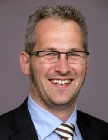
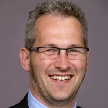
Adding registration links and photo fixes

diff --git a/public/stylesheets/table.css b/public/stylesheets/table.css
@@ -1,0 +1,135 @@
+.table_data{
+float:left;
+margin-top:10px;
+width:100%;
+}
+
+.table_border {
+	margin: 0 auto;
+	width: 100%;
+	border-left: 1px solid #c1c1c1;
+	border-right: 1px solid #c1c1c1;
+}
+.budget tr {
+background: url("../images/table_bg.png") repeat-x scroll 0 0 transparent;
+	
+	border-bottom: 1px solid #c1c1c1;
+	border-left: 1px solid #c1c1c1;
+	color: #678197;
+	padding: 5px 6px;
+	text-align: left;
+}
+
+.break_bg {
+background: url("../images/break_bg.png") repeat-x scroll 0 0 transparent !important;
+height:30px;
+	text-align: left;
+}
+
+.no_padding{
+padding:0px !important;
+
+}
+
+.user_headings {
+	font-weight:bold;
+	float:left;
+	padding:0px 0 0 0;
+	color:#f69e29;
+	
+	width:100%;
+}
+div.user_headings p.data {
+	background:url("../images/coffee_icon.png") no-repeat scroll left center transparent;
+	color:#000000;
+	font-size:12px;
+	font-weight:bold;
+height: 22px;
+    margin-left: 5px;
+    padding-left: 28px;
+    padding-top: 0;
+}
+.budget .table_header {
+	
+	border-top: 1px solid #c1c1c1;
+	color: #2A4D8E;
+	font-size: 12px;
+	font-weight: bold;
+	text-align: left;
+	height:29px;
+	padding-top: 8px;
+}
+.budget thead th {
+	background-image: url("../images/tbody_bg.png");
+	background-repeat: repeat-x;
+	color: #000000;
+	font: 12px "Arial", "Trebuchet MS", Arial, Helvetica, sans-serif;
+	height: 33px;
+	padding-left: 50px;
+	text-align: left;
+	padding-top:7px;
+	border-top: 1px solid #c1c1c1;
+	font-weight:bold;
+}
+.budget th {
+	border-bottom: 1px solid #c1c1c1;
+	border-left: 1px solid #c1c1c1;
+	color: #678197;
+	font-weight: normal;
+	padding: 0;
+	text-align: left;
+}
+.budget a {
+	color:#ff6000;
+	text-decoration:none;
+	font-weight:normal;
+	text-decoration:underline;
+}
+.budget td {
+	background: none repeat scroll 0 0 #FFFFFF;
+	border-bottom: 1px solid #c1c1c1;
+	border-left: 1px solid #c1c1c1;
+	color: #303030;
+	padding: 13px;
+	text-align: left;
+	font-size: 12px;
+}
+.field_small {
+	background: none repeat scroll 0 0 #ffffff;
+	border: 1px solid #b3cadb;
+	color: #000000;
+	font: 11px "Arial", "Trebuchet MS", Arial, Helvetica, sans-serif;
+	padding: 3px;
+	width: 20px;
+}
+.budget tr.odd td, tr.odd .column1 {
+	background: none repeat scroll 0 0 #F4F9FE;
+}
+.budget tr.even td, tr.even .column1 {
+	background: none repeat scroll 0 0 #e7f5ff;
+}
+.left_align {
+	text-align:left !important;
+	padding:5px!important;
+}
+.no_border {
+	border-left:none !important;
+}
+.no_border_bottom {
+	border-bottom:none !important;
+}
+.middle_align {
+	vertical-align:middle;
+}
+
+.bg_green{
+background: none repeat scroll 0 0 #e6f1c1 !important;
+}
+
+.bg_blue{
+background: none repeat scroll 0 0 #ddfef4 !important;
+}
+
+.bg_pink{
+background: none repeat scroll 0 0 #eaddfe !important;
+}

diff --git a/public/stylesheets/style.css b/public/stylesheets/style.css
@@ -237,7 +237,17 @@ a.signup_btn:hover {
 	-moz-background-clip:border;
 	-moz-background-inline-policy:continuous;
 	-moz-background-origin:padding;
-	background:transparent url(../images/under_review.gif) no-repeat scroll 0 0;
+/*	background:transparent url(../images/register_now_hp.png) no-repeat scroll 0 0;*/
+	border-bottom:1px dotted #6B81B3;
+	height:106px;
+	margin-top:5px;
+	width:392px;
+}
+.agenda_banner {
+	-moz-background-clip:border;
+	-moz-background-inline-policy:continuous;
+	-moz-background-origin:padding;
+/*	background:transparent url(../images/agenda.png) no-repeat scroll 0 0;*/
 	border-bottom:1px dotted #6B81B3;
 	height:106px;
 	margin-top:5px;
@@ -756,7 +766,7 @@ a.bigButton:hover span{
 .content_full h1{
 	border:solid 0px green;
 	color:#f99b1f;
-	float:left;
+	display: block;
 	padding-top:25px;
 	padding-left:10px;
 	font-size:22pt;

diff --git a/config/routes.rb b/config/routes.rb
@@ -62,6 +62,7 @@ Agilencr2011::Application.routes.draw do
 	get "pages/about"
 	get "pages/venue"
 	get "pages/contact_us"
+	get "pages/agenda"
 
 	resources :users do
 		resources :submissions

diff --git a/app/controllers/pages_controller.rb b/app/controllers/pages_controller.rb
@@ -12,6 +12,9 @@ class PagesController < ApplicationController
 	def venue
 	end
 
+	def agenda
+	end
+
 #	def contact_us
 #	end
 
